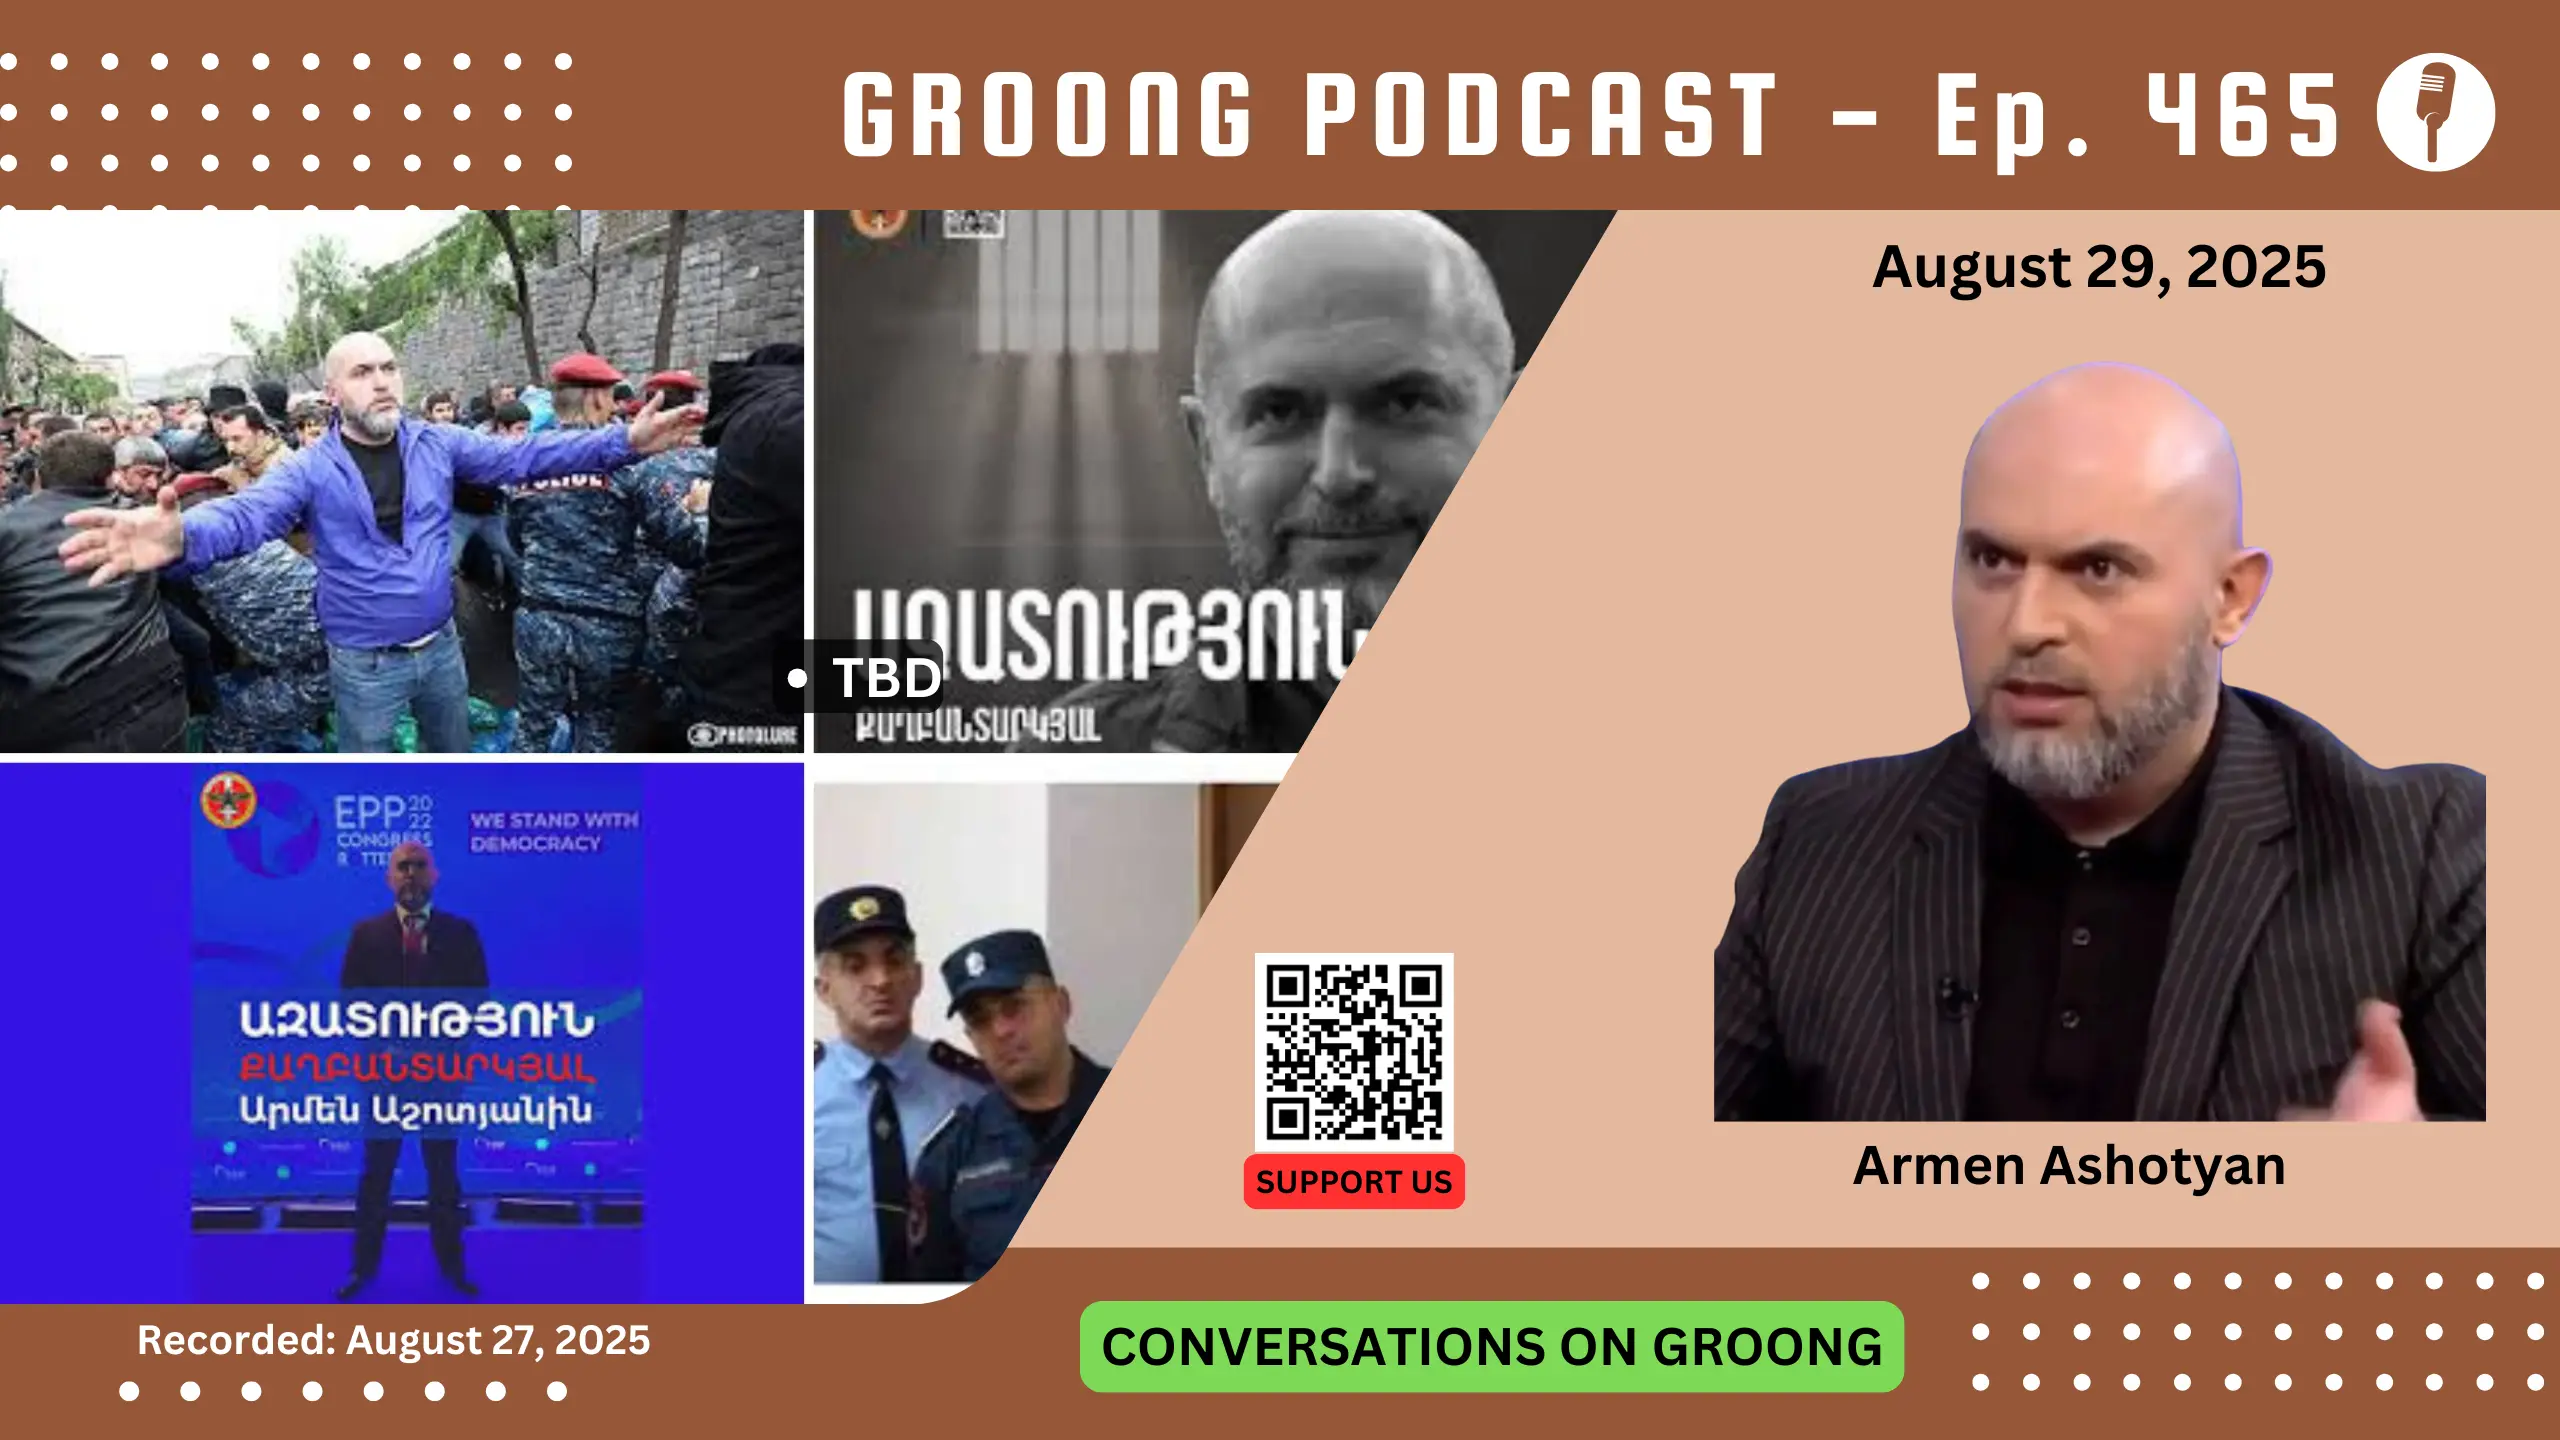
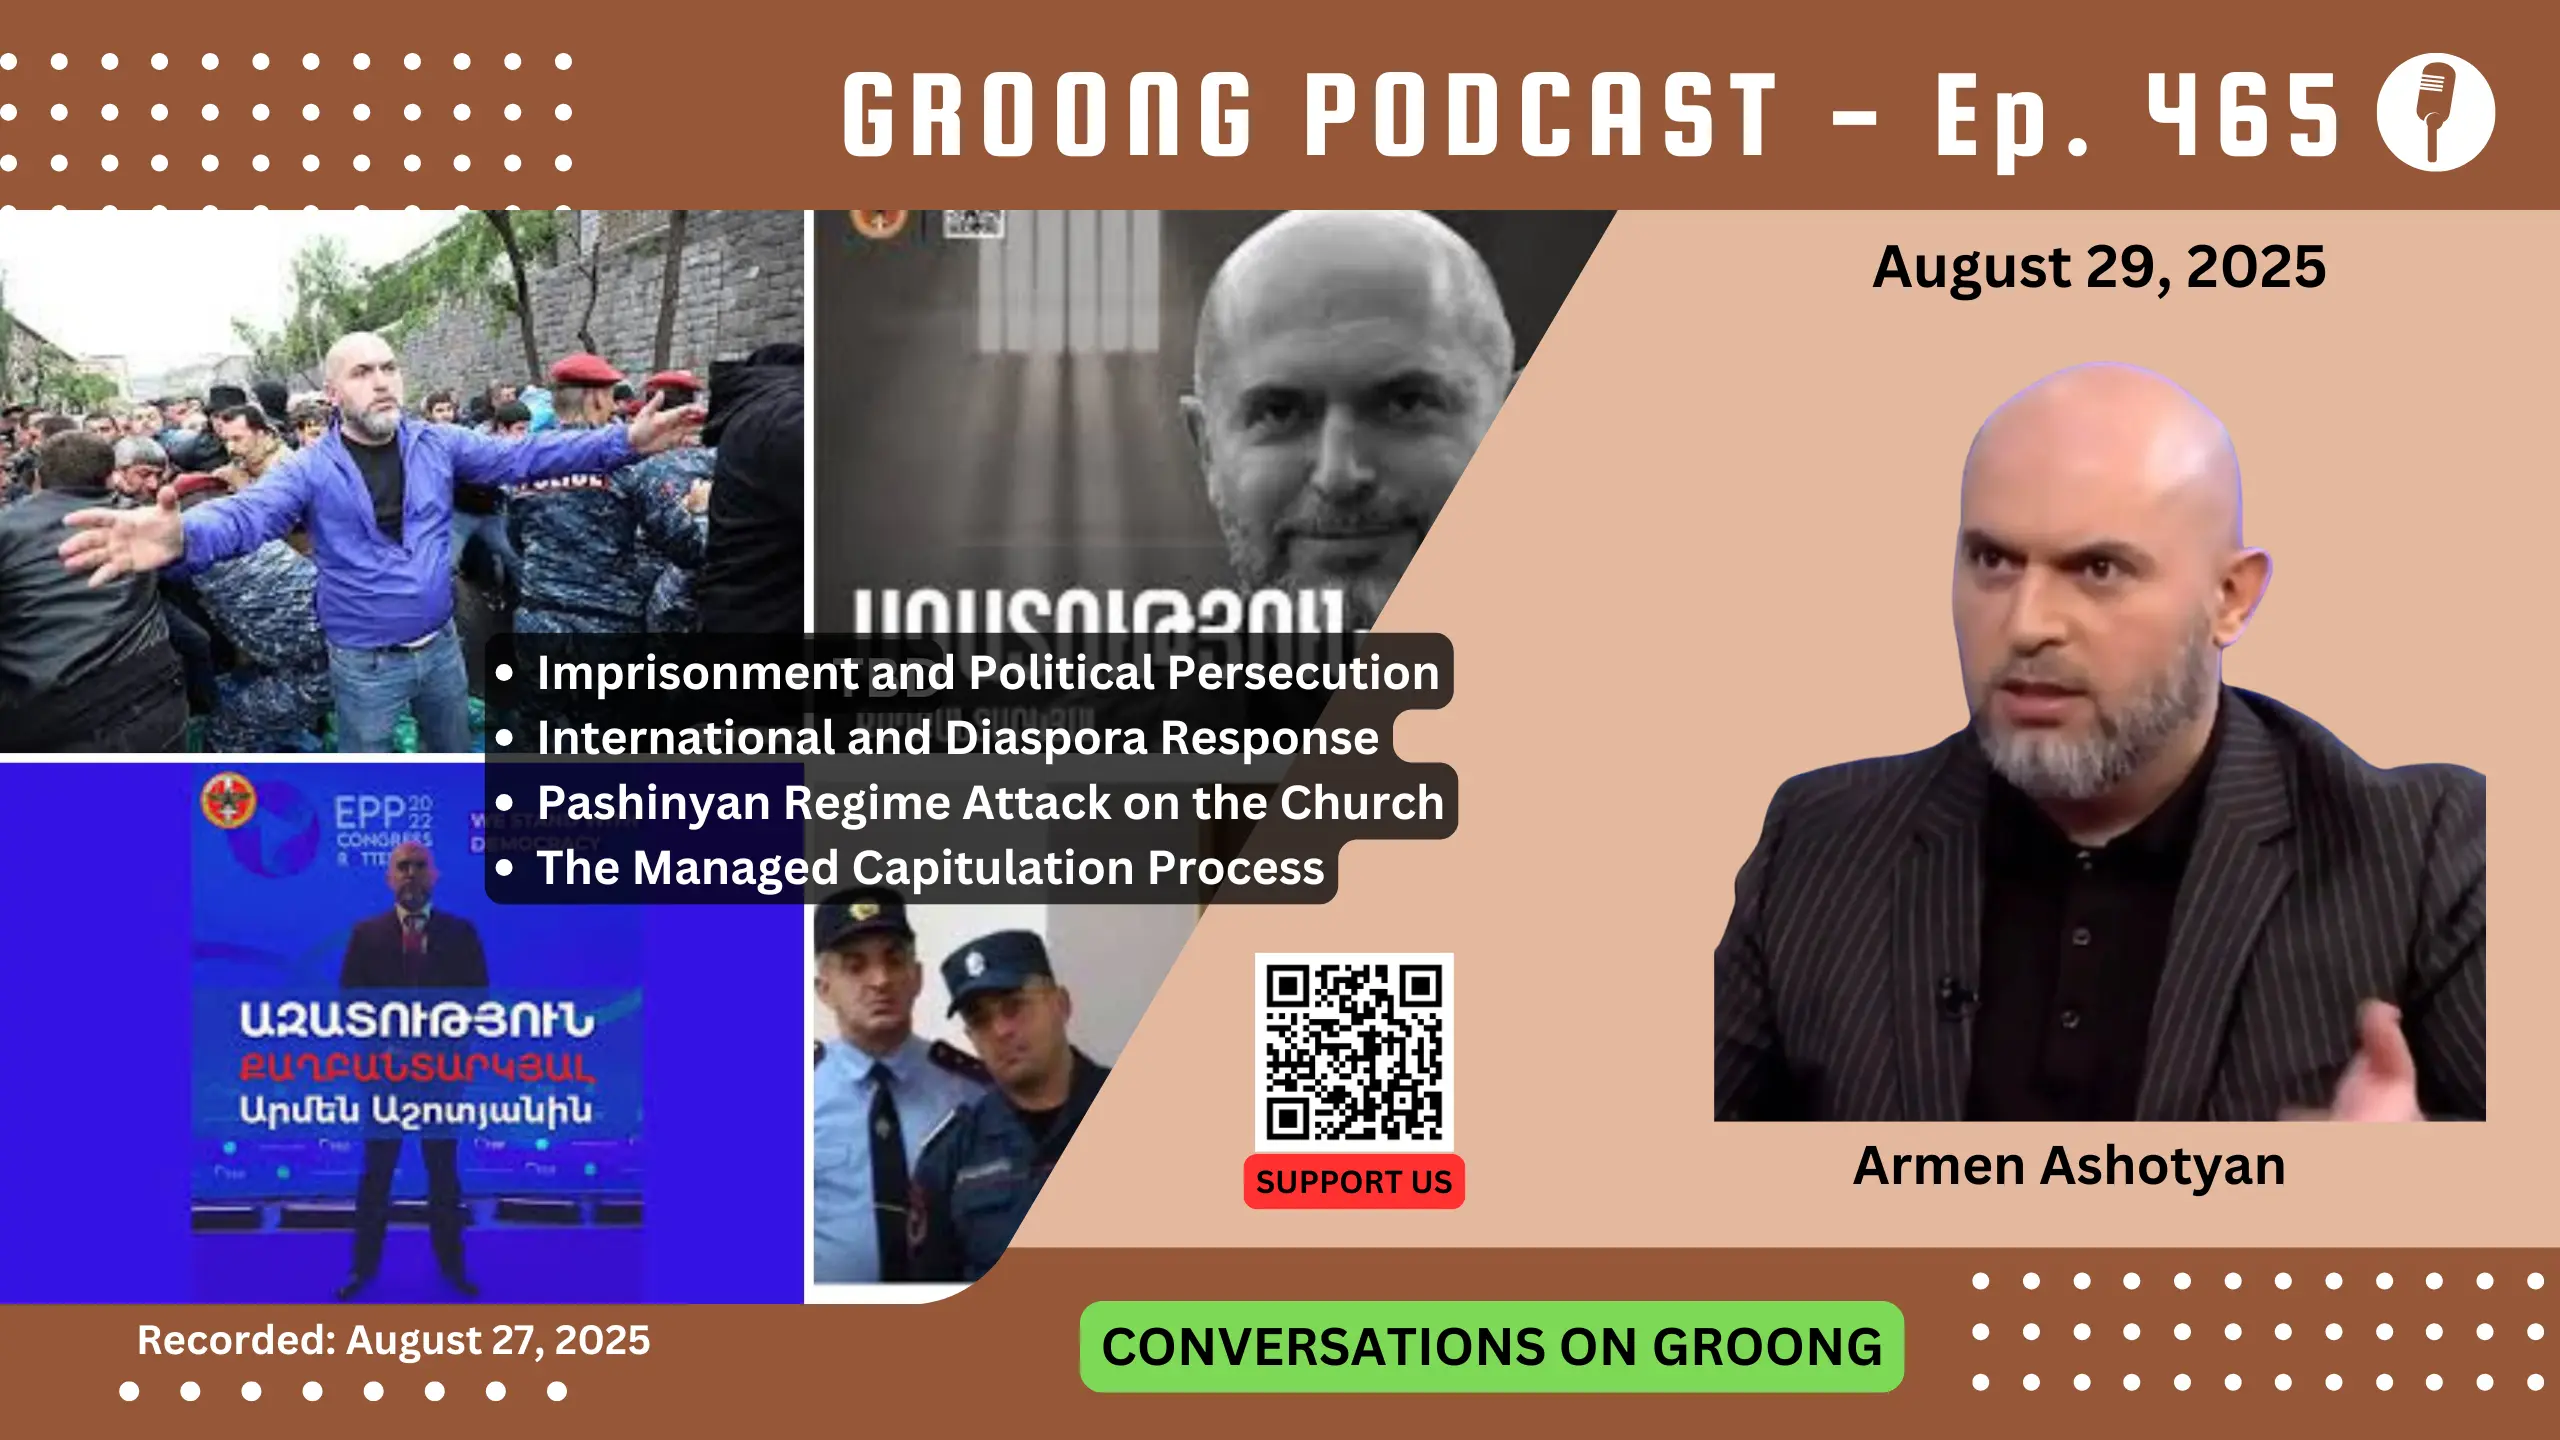
Stage Ep 465 with Armen Ashotyan

Changed region(s): [[0.1875, 0.4375, 0.5938, 0.6562]]

diff --git a/content/episode/465-armen-ashotyan-political-prisoner-epp-diaspora-armenian-church-capitulation-artsakh.md b/content/episode/465-armen-ashotyan-political-prisoner-epp-diaspora-armenian-church-capitulation-artsakh.md
@@ -1,0 +1,86 @@
++++
+Date = 2021-08-29T00:29:42-07:00
+upcoming = true
+
+title = "Armen Ashotyan - Reflections on Life as a Political Prisoner, Attacks on the Church and Sovereignty | Ep 465, Aug 29, 2025"
+subtitle = "Conversations on Groong - Recorded on: August 27, 2025"
+
+podcast_file = ""
+podcast_bytes = ""
+podcast_duration = ""
+youtube = ""
+
+episode_image = "img/episode/465/thumbnail-465.webp"
+episode_banner = "img/episode/465/banner-465.webp"
+images = ["img/episode/465/banner-465.webp"]
+
+hosts = ["hovik", "asbed"]
+guests = ["aashotyan"]
+
+episode = "465"
+aliases = ["/465"]
+
+series = ["cog"]
+categories = ["Armenia"]
+tags = ["Armenian News", "Armenia", "Armen Ashotyan", "Republican Party of Armenia", "RPA", "HHK", "House Arrest", "Pretrial Detention", "Administrative Supervision", "Travel Ban", "European People Party", "EPP", "Artsakh", "Nagorno Karabakh", "Nikol Pashinyan", "Autocratic Regime", "Political Prisoners", "Armenian POWs", "Human Rights", "European Values", "IDC CDI", "Christian Democrat", "European Commission", "Kaja Kalas", "Armenian Church", "Catholicos of all Armenians", "Garegin II", "Armenian Catholic Church", "Mekhitarists", "Armenian Protestants", "Haigazian", "Lebanon", "Syria", "Iraq", "Iran", "44-Day War", "War Commission", "Andranik Kocharyan"]
+
+Description = """
+
+#### Groong Links:
+* [GIVE to GROONG](https://podcasts.groong.org/donate)
+* [linktr.ee/Groong](https://linktr.ee/groong)
+
+#### Guest:
+* [Armen Ashotyan](/guest/ashotyan), MP, VP Republican Party of Armenia (HHK)
+
+#### Topics:
+* Imprisonment and Political Persecution
+* International and Diaspora Response
+* Pashinyan Regime Attack on the Church
+* The Managed Capitulation Process
+
+
+Episode 465 | Recorded on August 27, 2025"""
+
++++
+
+In this episode of *Conversations on Groong*, we speak with **Armen Ashotyan**, vice president of the Republican Party of Armenia, in his first English-language interview since being released from house arrest. Ashotyan reflects on his 25 months of detention as Armenia’s most prominent political prisoner, the broader pattern of repression under Pashinyan, the muted response of Western diplomats, the fragmented stance of the diaspora, and the ongoing erosion of Armenian statehood through the so-called “peace” process with Azerbaijan.  
+
+---
+
+# Main Topics Addressed
+- Armen Ashotyan’s imprisonment, conditions of detention, and current restrictions.  
+- The role and response of international organizations and the Armenian diaspora.
+- The Pashinyan government’s targeting of the Armenian Church and broader political repression.  
+- The “Managed Capitulation Process”: Artsakh’s ethnic cleansing, the 17-point draft document, and constitutional preconditions.  
+
+---
+
+# Key Questions Discussed
+- What was Ashotyan’s experience as a political prisoner under the Pashinyan regime?  
+- How has international and diaspora support compared to earlier eras?  
+- Why are Church leaders and activists being imprisoned, and why is society tolerating it?  
+- How does Ashotyan assess Pashinyan’s handling of negotiations with Aliyev and the so-called “peace” process?  
+- What does the 17-point draft document mean for Armenia, and how realistic is constitutional change as a precondition?  
+
+---
+
+# Referenced Articles & Sources
+- [Episode 343 with Rafael Ishkanyan on Ashotyan’s case](https://podcasts.groong.org/343)  
+- [Aravot: “Political Prisoners in Armenia” (2018)](https://en.aravot.am/2018/05/07/212112/)  
+- [EPP Political Assembly Statement on Armenia](https://www.epp.eu/news/epp-political-assembly-meets-in-brussels)  
+
+
+
+
+# Wrap-up
+
+### **Don't forget to support us:**
+* [Patreon - Support Groong](https://www.patreon.com/ann_groong)
+* [Buy Me a Coffee - Support Groong](https://www.buymeacoffee.com/groong)
+
+
+That’s our [show](https://podcasts.groong.org/)! We hope you found it useful. Please find us on [Social Media](https://linktr.ee/groong) and follow us everywhere you get your Armenian news.
+
+Thanks to **Laura Osborn** for the music on our podcasts.
+
